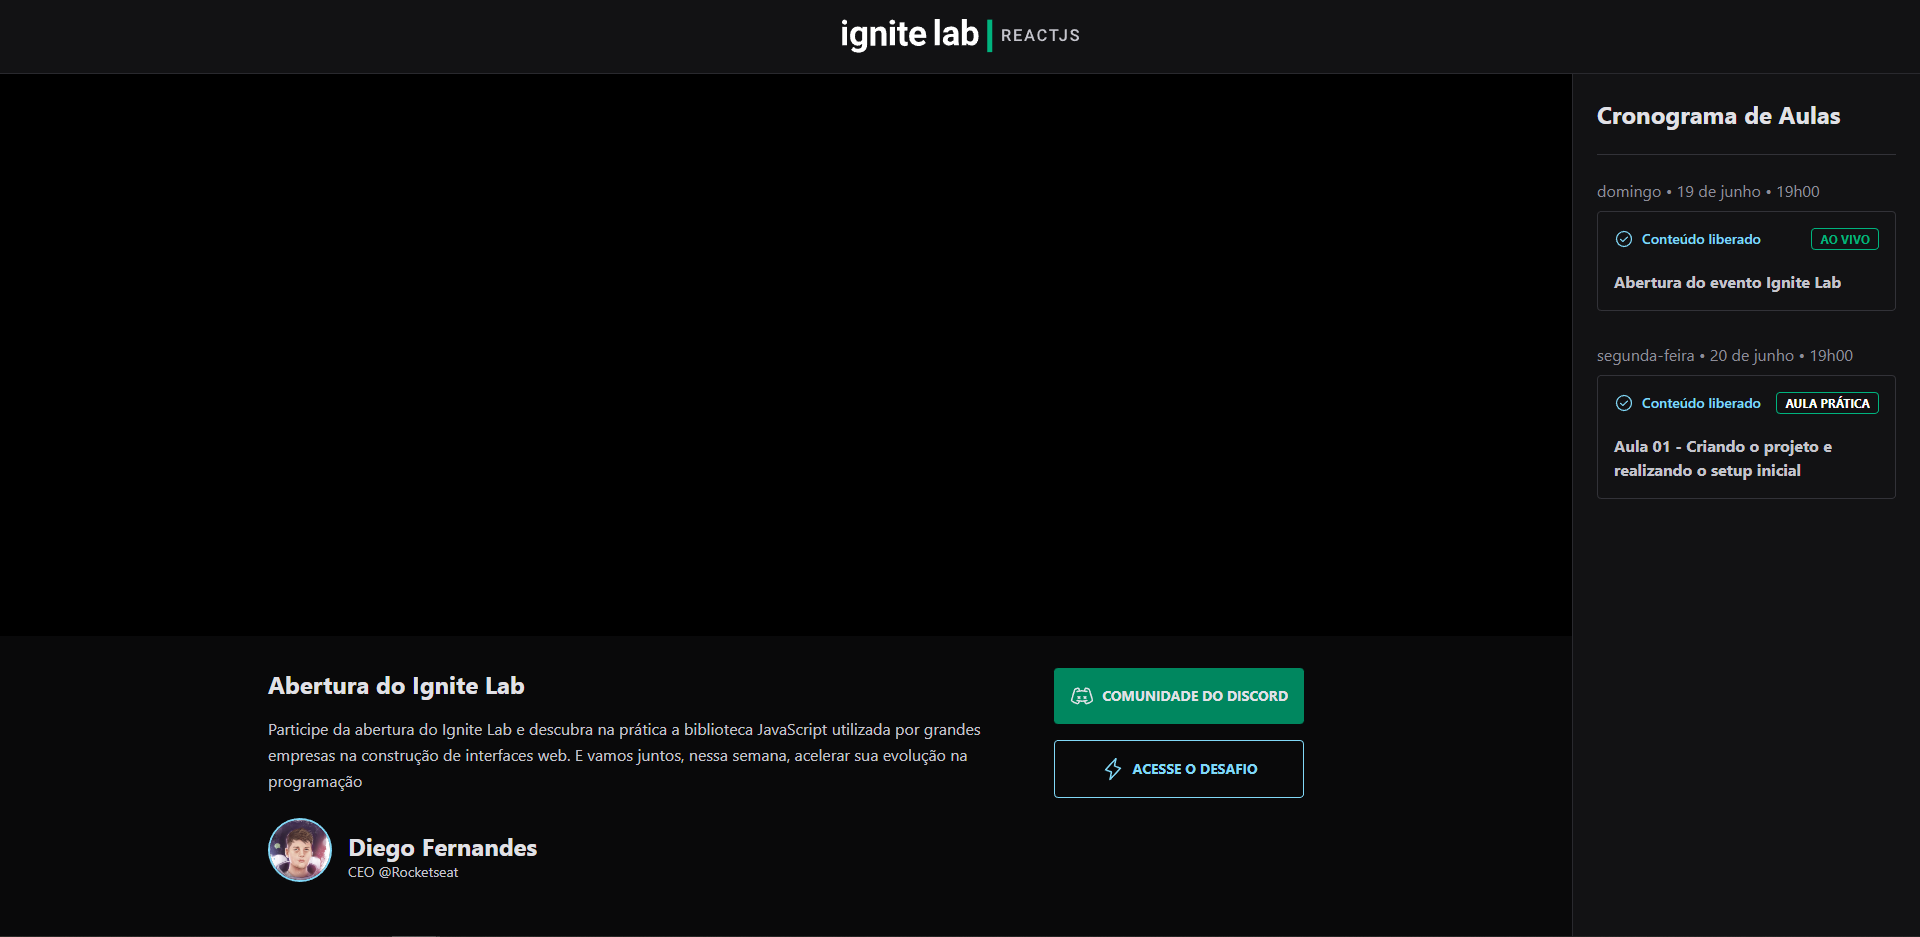
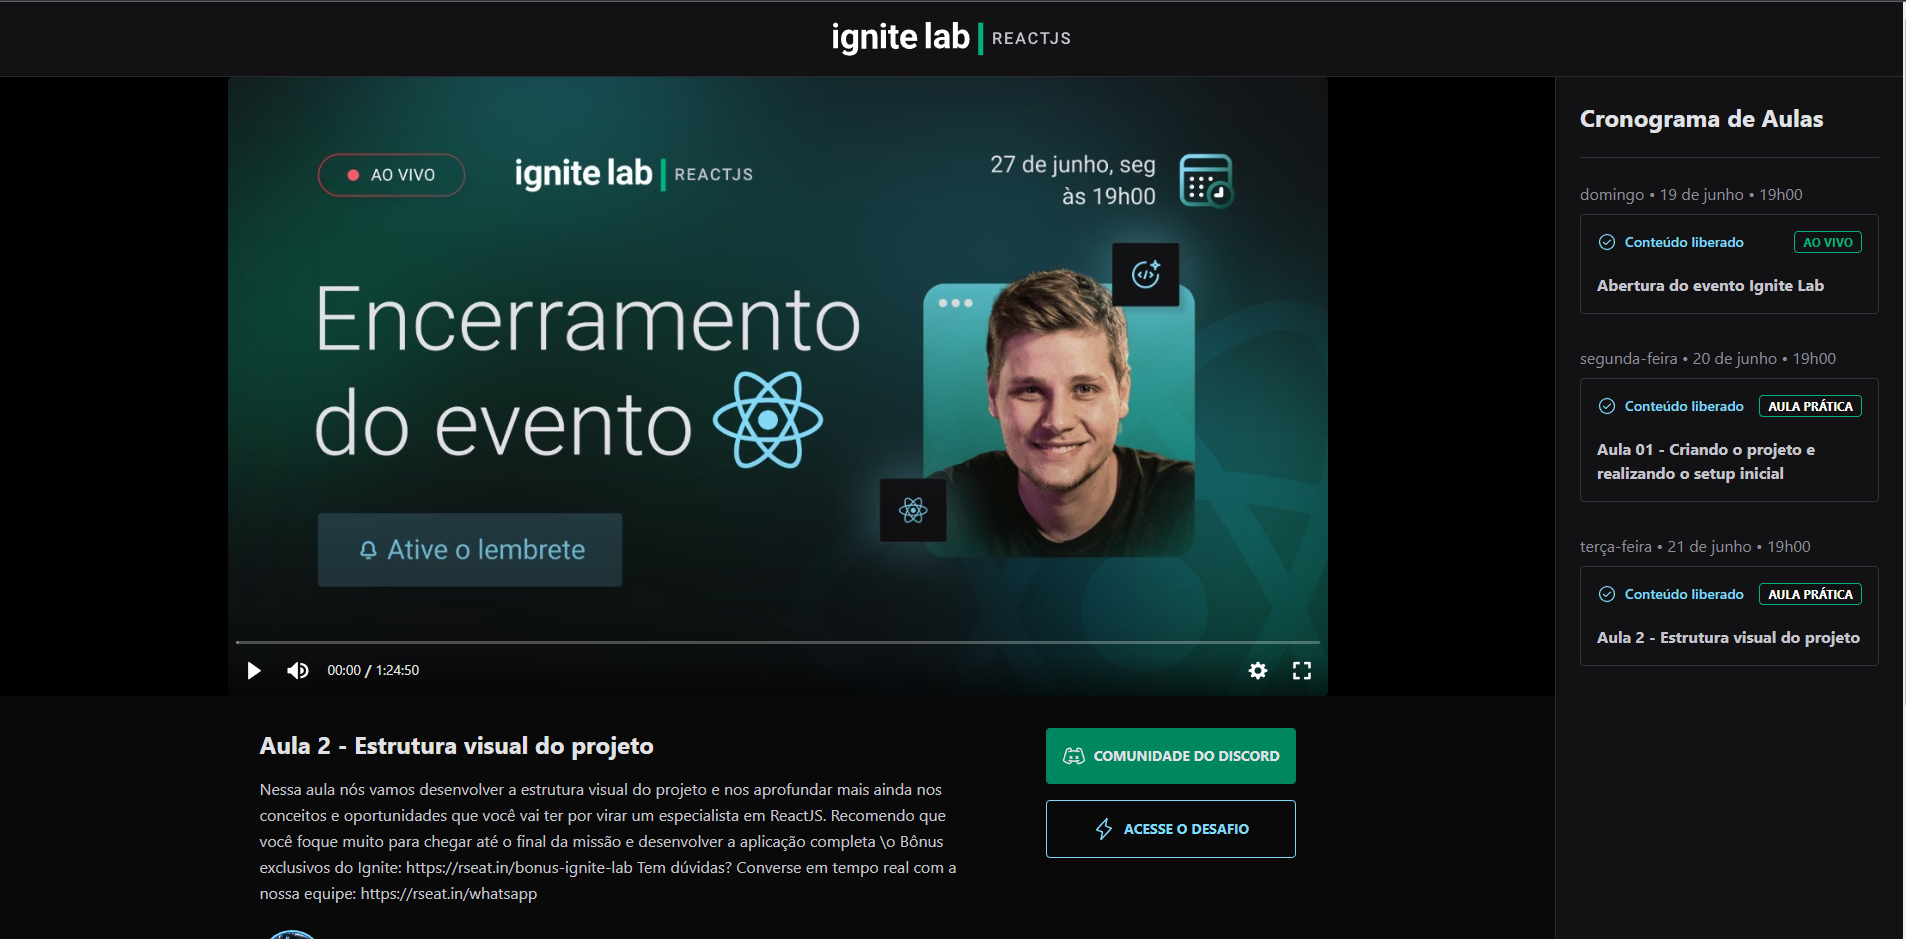
Adicionando video na aplicação

diff --git a/src/components/Video.tsx b/src/components/Video.tsx
@@ -1,46 +1,141 @@
-import { DiscordLogo, Lightning } from "phosphor-react";
+import { DefaultUi, Player, Youtube } from '@vime/react'
+import { gql, useQuery } from '@apollo/client';
+import { CaretRight, DiscordLogo, FileArrowDown, Image, Lightning } from 'phosphor-react'
 
-export function Video(){
-  return(
+import '@vime/core/themes/default.css'
+
+const GET_LESSON_BY_SLUG_QUERY = gql`
+query GetLessonBySlug($slug: String) {
+  lesson(where: {slug: $slug}) {
+    title
+    videoId
+    description
+    teacher {
+      bio
+      avatarURL
+      name
+    }
+  }
+}
+` 
+
+interface GetLessonBySlugResponse{
+  lesson: {
+    title: string;
+    videoId: string;
+    description: string;
+    teacher: {
+      bio: string;
+      avatarURL: string;
+      name: string;
+    }
+  }
+}
+
+interface VideoProps{
+  lessonSlug: string;
+}
+
+export function Video(props:VideoProps) {
+  const {data} = useQuery<GetLessonBySlugResponse>(GET_LESSON_BY_SLUG_QUERY, {
+    variables: {
+      slug: props.lessonSlug,
+    }
+  })
+
+  if(!data){
+    return(
+      <div className="flex-1">
+        <p>Carregando...</p>
+      </div>
+    )
+  }
+
+  return (
     <div className="flex-1">
       <div className="bg-black flex justify-center">
-        <div className="h-full w-full max-w-[1100px] max-h-[60vh] aspect-video" ></div>
+        <div className="h-full w-full max-w-[1100px] max-h-[60vh] aspect-video">
+          <Player>
+            <Youtube videoId={data.lesson.videoId} />
+            <DefaultUi />
+          </Player>
+        </div>
       </div>
 
       <div className="p-8 max-w-[1100px] mx-auto">
         <div className="flex items-start gap-16">
           <div className="flex-1">
             <h1 className="text-2xl font-bold">
-              Abertura do Ignite Lab
+              {data.lesson.title}
             </h1>
             <p className="mt-4 text-gray-200 leading-relaxed">
-              Participe da abertura do Ignite Lab e descubra na prática a biblioteca JavaScript utilizada por grandes empresas na construção de interfaces web. E vamos juntos, nessa semana, acelerar sua evolução na programação
+              {data.lesson.description}
             </p>
 
             <div className="flex items-end gap-4 mt-6">
               <img
-                className="h-16 w-16 rounded-full border-2 border-blue-500" 
-                src="https://github.com/diego3g.png" 
-                alt="" 
+                className="h-16 w-16 rounded-full border-2 border-blue-500"
+                src={data.lesson.teacher.avatarURL}
+                alt=""
               />
               <div className="leading-relaxed">
-                <strong className="font-bold text-2xl block">Diego Fernandes</strong>
-                <span className="text-gray-200 text-sm block">CEO @Rocketseat</span>
+                <strong className="font-bold text-2xl block">
+                  {data.lesson.teacher.name}
+                </strong>
+                <span className="text-gray-200 text-sm block">
+                  {data.lesson.teacher.bio}
+                </span>
               </div>
             </div>
           </div>
           <div className="flex flex-col gap-4">
-            <a href="" className="p-4 text-sm bg-green-500 flex items-center rounded font-bold uppercase gap-2 justify-center hover:bg-green-700 transition-colors">
+            <a
+              href=""
+              className="p-4 text-sm bg-green-500 flex items-center rounded font-bold uppercase gap-2 justify-center hover:bg-green-700 transition-colors"
+            >
               <DiscordLogo size={24} />
               Comunidade do Discord
             </a>
-            <a href="" className="p-4 text-sm border border-blue-500 text-blue-500 flex items-center rounded font-bold uppercase gap-2 justify-center hover:bg-blue-500 hover:text-gray-900 transition-colors">
+            <a
+              href=""
+              className="p-4 text-sm border border-blue-500 text-blue-500 flex items-center rounded font-bold uppercase gap-2 justify-center hover:bg-blue-500 hover:text-gray-900 transition-colors"
+            >
               <Lightning size={24} />
               Acesse o Desafio
             </a>
           </div>
         </div>
-        <div></div>
+        <div className="gap-8 mt-20 grid grid-cols-2">
+          <a href="" className="bg-gray-700 rounded overflow-hidden flex items-stretch gap-6 hover:bg-gray-600 transition-colors">
+            <div className="bg-green-700 h-full p-6 flex items-center">
+              <FileArrowDown size={40} />
+            </div>
+            <div className="py-6 leading-relaxed">
+              <strong className="text-2xl">Material Complemerntar</strong>
+              <p className="text-sm text-gray-200 mt-2">
+                Acesse o material complementar para acelerar o seu desenvolvimento
+              </p>
+            </div>
+            <div className="h-full p-6 flex items-center">
+              <CaretRight size={25} />
+            </div>
+          </a>
+
+          <a href="" className="bg-gray-700 rounded overflow-hidden flex items-stretch gap-6 hover:bg-gray-600 transition-colors">
+            <div className="bg-green-700 h-full p-6 flex items-center">
+              <Image size={40} />
+            </div>
+            <div className="py-6 leading-relaxed">
+              <strong className="text-2xl">Wallpapers exclusivos</strong>
+              <p className="text-sm text-gray-200 mt-2">
+                Baixe wallpapers exclusivos do Ignite Lab e personalize a sua máquina
+              </p>
+            </div>
+            <div className="h-full p-6 flex items-center">
+              <CaretRight size={25} />
+            </div>
+          </a>
+        </div>
       </div>
     </div>
   )

diff --git a/src/components/Lesson.tsx b/src/components/Lesson.tsx
@@ -1,6 +1,7 @@
 import { CheckCircle, Lock } from 'phosphor-react'
 import { isPast, format } from 'date-fns'
 import  ptBR from 'date-fns/locale/pt-BR'
+import { Link } from 'react-router-dom'
 
 interface LessonProps {
   title: string
@@ -16,12 +17,12 @@ export function Lesson(props: LessonProps) {
   }) 
 
   return (
-    <a href="#">
+    <Link to={`/event/lesson/${props.slug}`} className="group">
       <span className="text-gray-300">
         {availableDateFormat}
       </span>
 
-      <div className="rounded border border-gray-500 p-4 mt-2">
+      <div className="rounded border border-gray-500 p-4 mt-2 group-hover:border-green-500">
         <header className="flex items-center justify-between">
           {isLessonAvailable ? (
             <span className="text-sm text-blue-500 font-medium flex items-center gap-2">
@@ -47,6 +48,6 @@ export function Lesson(props: LessonProps) {
         </header>
         <strong className="text-gray-200 mt-5 block">{props.title}</strong>
       </div>
-    </a>
+    </Link>
   )
 }

diff --git a/src/pages/Event.tsx b/src/pages/Event.tsx
@@ -1,16 +1,22 @@
+import { useParams } from 'react-router-dom'
 import { Footer } from '../components/Footer'
 import { Header } from '../components/Header'
 import { Sidebar } from '../components/Sidebar'
 import { Video } from '../components/Video'
 
 export function Event() {
+  const {slug} = useParams<{slug: string}>()
+
   return (
     <>
     <div className="flex flex-col min-h-screen">
 
       <Header />
       <main className="flex flex-1">
-        <Video />
+        { slug 
+          ? <Video lessonSlug={slug} /> 
+          : <div className="flex-1"/>
+        }
         <Sidebar />
       </main>
     </div>

diff --git a/src/App.tsx b/src/App.tsx
@@ -1,9 +1,16 @@
-import { Event } from './pages/Event'
+import { ApolloProvider } from '@apollo/client'
+import { BrowserRouter } from 'react-router-dom'
+import { client } from './lib/apollo'
+import { Router } from './Router'
 
 function App() {
   return (
     <div>
-      <Event />
+      <ApolloProvider client={client}>
+        <BrowserRouter>
+          <Router />
+        </BrowserRouter>
+      </ApolloProvider>
     </div>
   )
 }

diff --git a/src/main.tsx b/src/main.tsx
@@ -1,15 +1,11 @@
-import { ApolloProvider } from '@apollo/client'
 import React from 'react'
 import ReactDOM from 'react-dom/client'
 import App from './App'
-import { client } from './lib/apollo'
 
 import './styles/global.css'
 
 ReactDOM.createRoot(document.getElementById('root')!).render(
   <React.StrictMode>
-    <ApolloProvider client={client}>
       <App />
-    </ApolloProvider>
   </React.StrictMode>
 )

diff --git a/src/Router.tsx b/src/Router.tsx
@@ -1,0 +1,12 @@
+import { Route, Routes } from "react-router-dom";
+import { Event } from './pages/Event'
+
+export function Router(){
+  return(
+    <Routes>
+      <Route path="/" element={<h1>Home</h1>}/>
+      <Route path="/event" element={<Event />}/>
+      <Route path="/event/lesson/:slug" element={<Event />}/>
+    </Routes>
+  )
+}

diff --git a/README.md b/README.md
@@ -23,10 +23,13 @@ Esse projeto foi desenvolvido com as seguintes tecnologias:
 
 - ReactJS
 - GraphQL
-- HTML
-- CSS
 - JavaScript
 - TypeScript
+- Tailwindcss
+- @apollo/client
+- Phosphor-React
+- HTML
+- CSS
 
 ## 💻 Projeto
 
